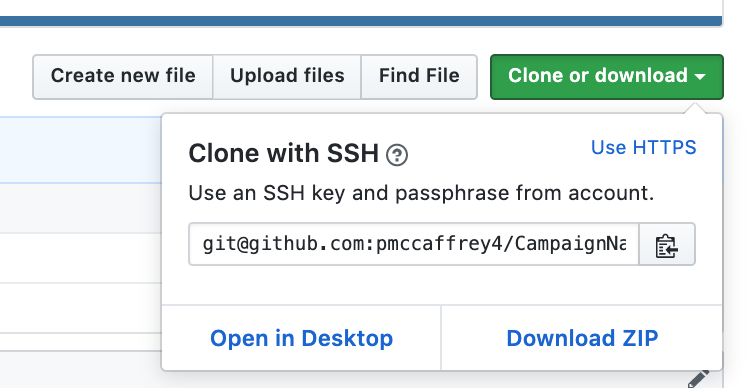
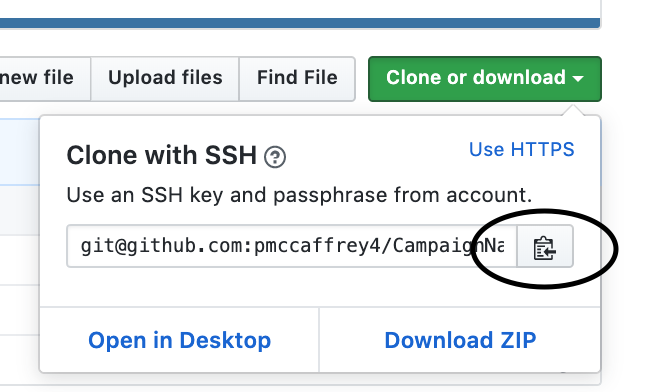
readme update 2

diff --git a/README.md b/README.md
@@ -7,3 +7,21 @@
 ### Clone Git Repo to your computer
 
 ![](images/git-clone.png)
+
+
+Copy Link by selecting Copy button circled in the above photo.
+
+Open your Terminal or Command Prompt Windows, navigate where you would like this project to live.
+
+I saved this on my Desktop, to get there through command line.
+
+Linux/Mac:
+```cd ~/Desktop/```
+
+Windows:
+```cd Desktop```
+
+
+Now Clone the repo to your Desktop.
+
+```git clone "link copied from above"```
